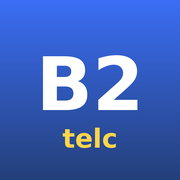
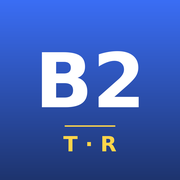
Ilova: yangi ikonka (B2 + T·R) va ekranlarda «Timur Rakhmonov» imzosi
Claude-Session: https://claude.ai/code/session_01X2aTvsfRwYc5w6tXnLY7Mo

Changed region(s): [[0.2222, 0.2778, 0.5, 0.6111], [0.5278, 0.2778, 0.7778, 0.6111], [0.3333, 0.6944, 0.6667, 0.8611]]

diff --git a/telc/ilova.html b/telc/ilova.html
@@ -4,8 +4,8 @@
 <title>telc B2</title><meta name="robots" content="noindex">
 <!-- Telefon ilovasi (PWA), 17.11.2026: Telegram'siz ochiladi, lekin har bir telefon ustoz tasdiqlagandan keyingina ishlaydi.
      Server: Supabase yhljeyxcporqienvdjax, funksiya "ilova". Tasdiqlash — @Timur_B2simulyatsiya_bot orqali. -->
-<link rel="manifest" href="ilova.webmanifest">
-<link rel="apple-touch-icon" href="ic/apple-180.png">
+<link rel="manifest" href="ilova.webmanifest?v=2">
+<link rel="apple-touch-icon" href="ic/apple-180.png?v=2">
 <meta name="apple-mobile-web-app-capable" content="yes">
 <meta name="mobile-web-app-capable" content="yes">
 <meta name="apple-mobile-web-app-title" content="telc B2">
@@ -61,7 +61,7 @@ window.IL=(function(){
 <script>
 (async function(){
   const m=document.getElementById("m"),show=h=>{m.innerHTML=h};
-  const LOGO='<img class="logo" src="ic/icon-192.png" alt="">';
+  const LOGO='<img class="logo" src="ic/icon-192.png?v=2" alt=""><div style="margin:-6px 0 14px;font:600 13px -apple-system,sans-serif;letter-spacing:.3px;color:#8a6d1f">Timur Rakhmonov · telc B2 tayyorlov</div>';
   const ios=/iPhone|iPad|iPod/.test(navigator.userAgent)||(navigator.platform==="MacIntel"&&navigator.maxTouchPoints>1);
   const standalone=navigator.standalone===true||matchMedia("(display-mode: standalone)").matches;
 
@@ -146,7 +146,7 @@ window.IL=(function(){
     let html=r.html;const i=html.lastIndexOf("</body>");
     html=i>=0?html.slice(0,i)+inj+liveTag+html.slice(i):html+inj+liveTag;
     // Ilova ikonkasi va sarlavhasi saqlanib qolsin
-    html=html.replace(/<head>/i,'<head><link rel="manifest" href="ilova.webmanifest"><link rel="apple-touch-icon" href="ic/apple-180.png"><meta name="apple-mobile-web-app-capable" content="yes"><meta name="apple-mobile-web-app-title" content="telc B2">');
+    html=html.replace(/<head>/i,'<head><link rel="manifest" href="ilova.webmanifest?v=2"><link rel="apple-touch-icon" href="ic/apple-180.png?v=2"><meta name="apple-mobile-web-app-capable" content="yes"><meta name="apple-mobile-web-app-title" content="telc B2">');
     document.open();document.write(html);document.close();
   }
 
